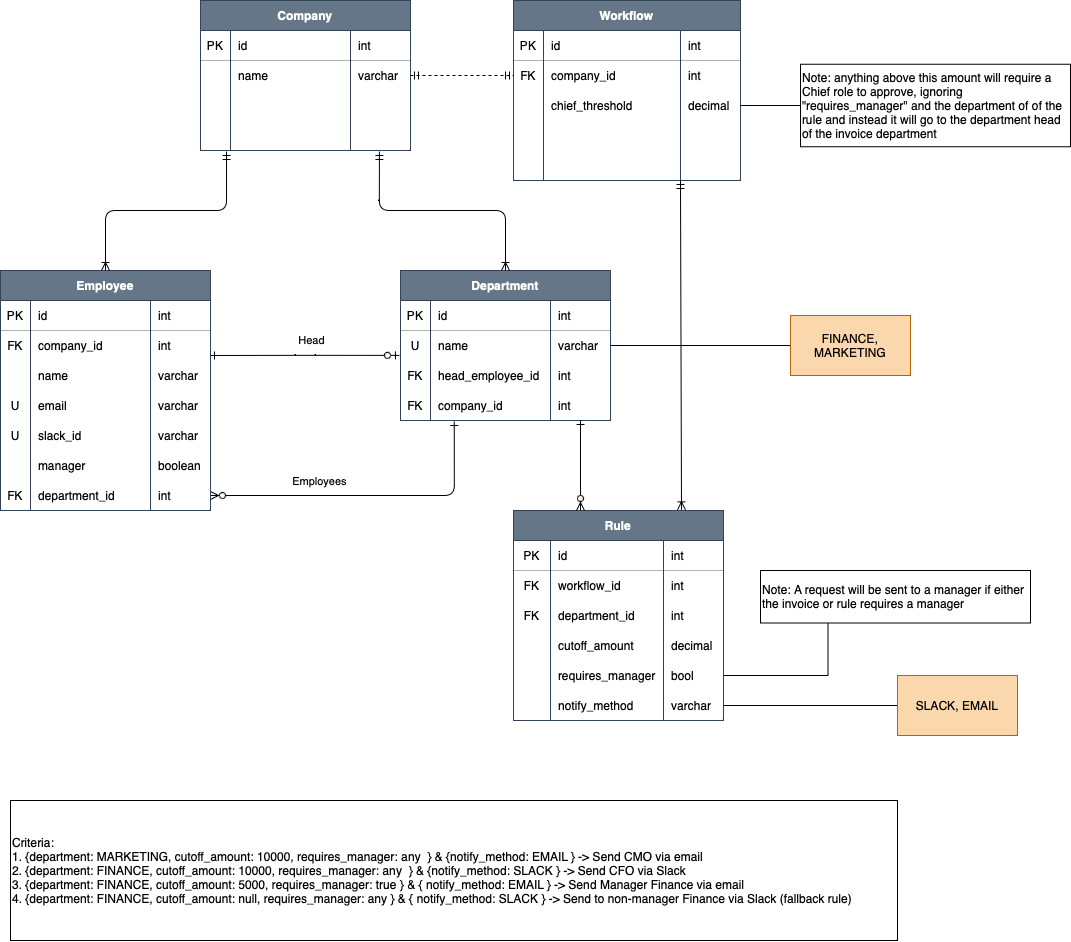
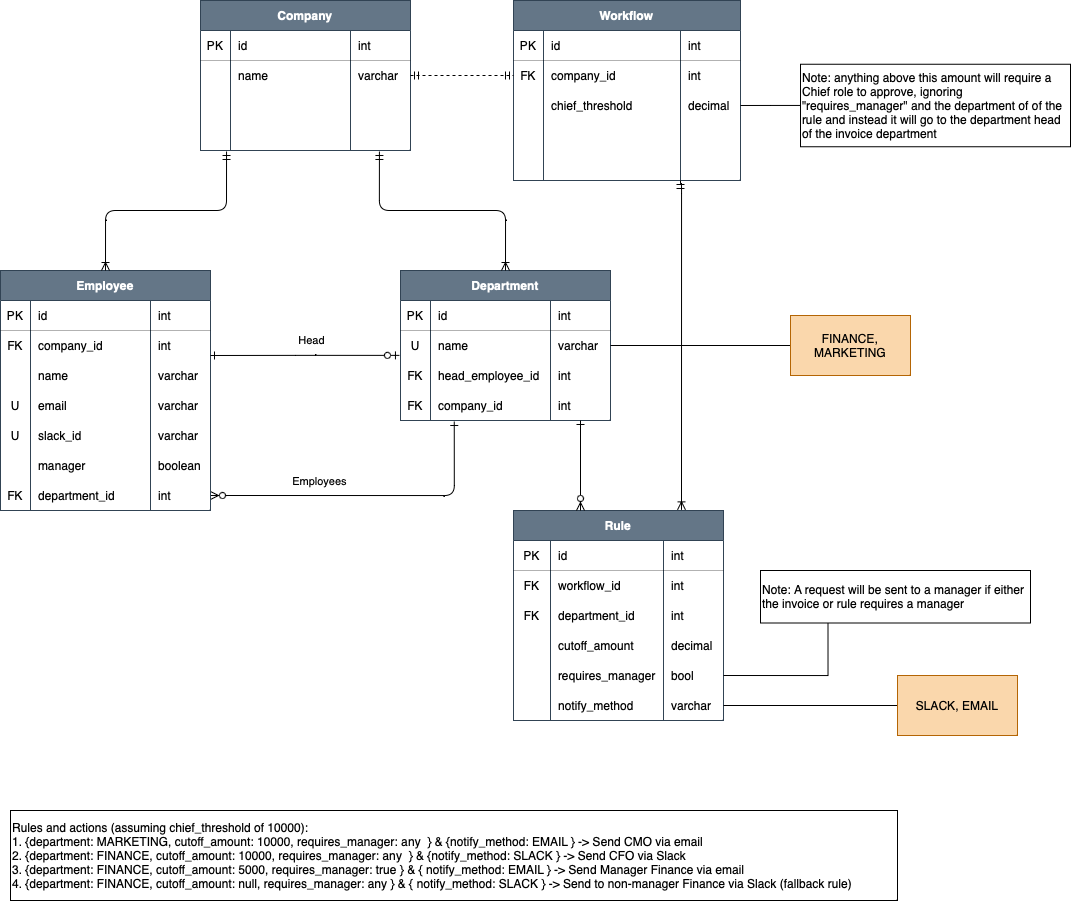
Update database diagram and readme

diff --git a/README.md b/README.md
@@ -11,7 +11,7 @@
 - **arg3** is an _enum_ for the `department` (_Finance, Marketing_)
 - **arg4** is a _bool_ for `manager_approval`
 
-#### Some Quick commands (note: the default chief_cutoff is $10,000)
+#### Some Quick commands for the Flowchart (note: the default chief_cutoff is $10,000 in this case)
 
 ```sh
 ./gradlew run --args='1 15000 Marketing true' # Sends request to marketing chief via email
@@ -31,14 +31,14 @@
 - A workflow specifies the amount which will always requires a Chief.
 - If no conditions are met, send the request to a regular employee of the department attached to the fall back rule.
 - For currencies we use `BigDecimals` in the database and application to maintain precision.
-- Priority of rules are in ordered by _descending_ order of the `cutoff_amount`.
+- Priority of rules are evaluated by _descending_ order of the `cutoff_amount`, then the `department` and finally the `requires_approval`.
 - An approval request will be sent to a manager if either the `invoice` or the `rule` has `true` for `requires_manager`.
 
 ### Possible Improvements:
 - We currently retrieve big data sets from the Database at once, preventing lots of manual lookups. On production a wiser thing could be to split this up into multiple queries to avoid huge memory usage.
 - The primary keys use auto-incrementing integers but in production probably a `UUID` would be a better idea.
 - Currently a rule can only have 1 set of conditions and 1 set of actions but this can be modelled to allow for several conditions and actions per rule.
-- Allow for the possibility to assign manual priority per rule as now it simply goes by descending order of `cutoff_amount`.
+- Allow for the possibility to assign manual priority to a rule as now all conditions are simply evaluated one by one.
 
 ### Database ERD:
 ![database_diagram](database_light.png)
